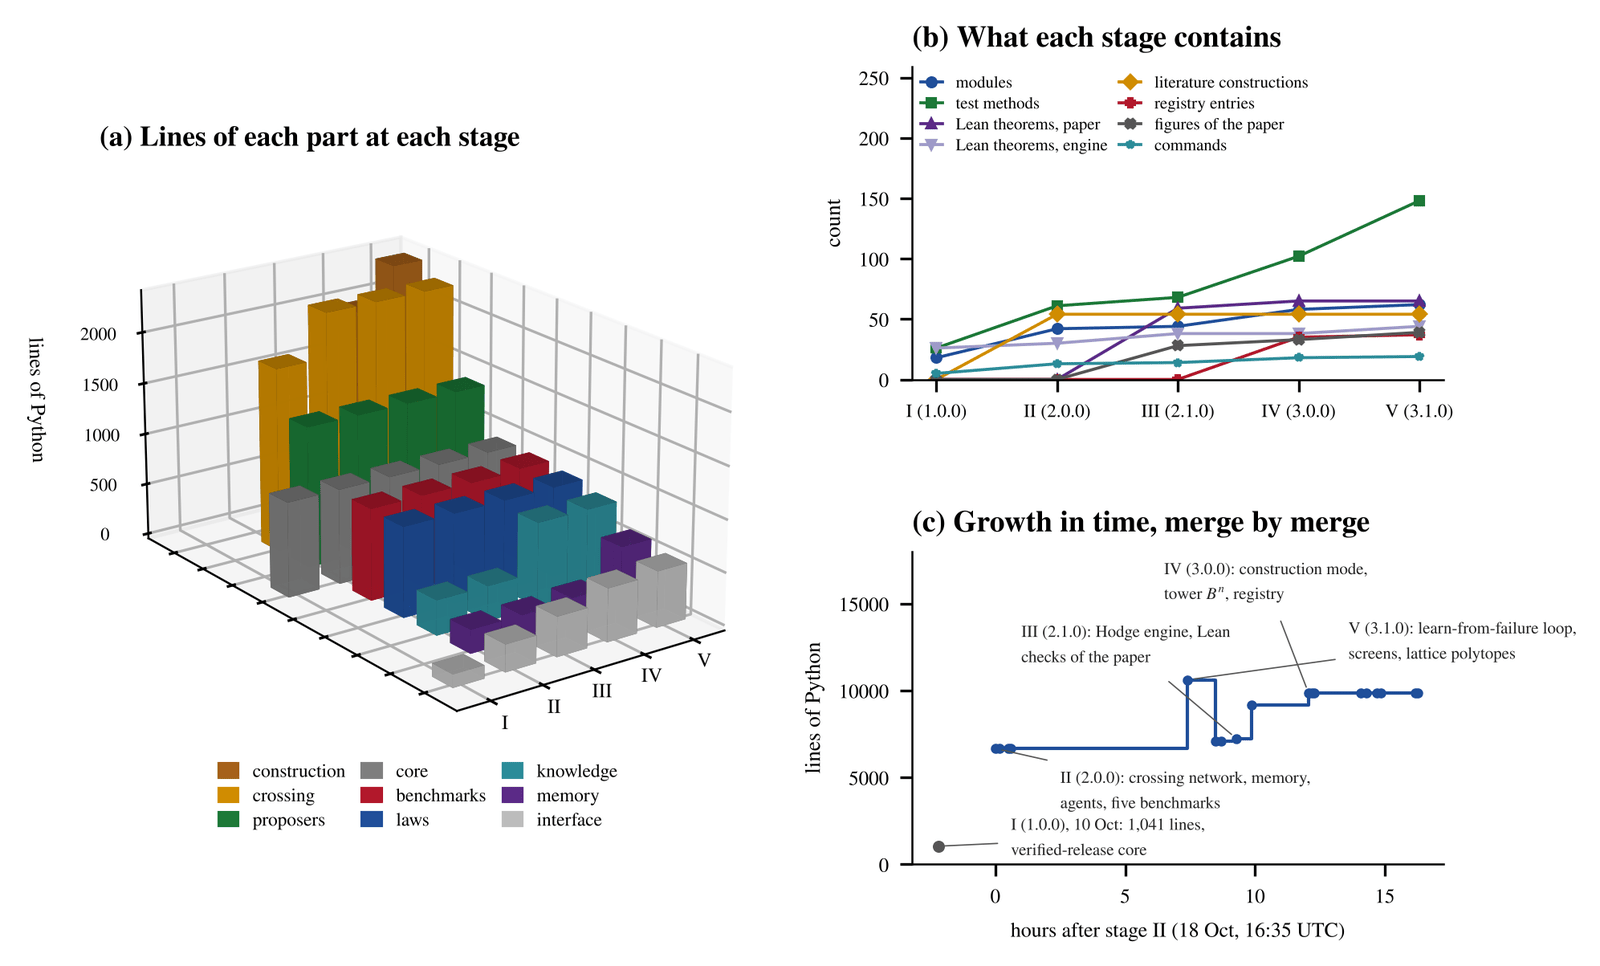
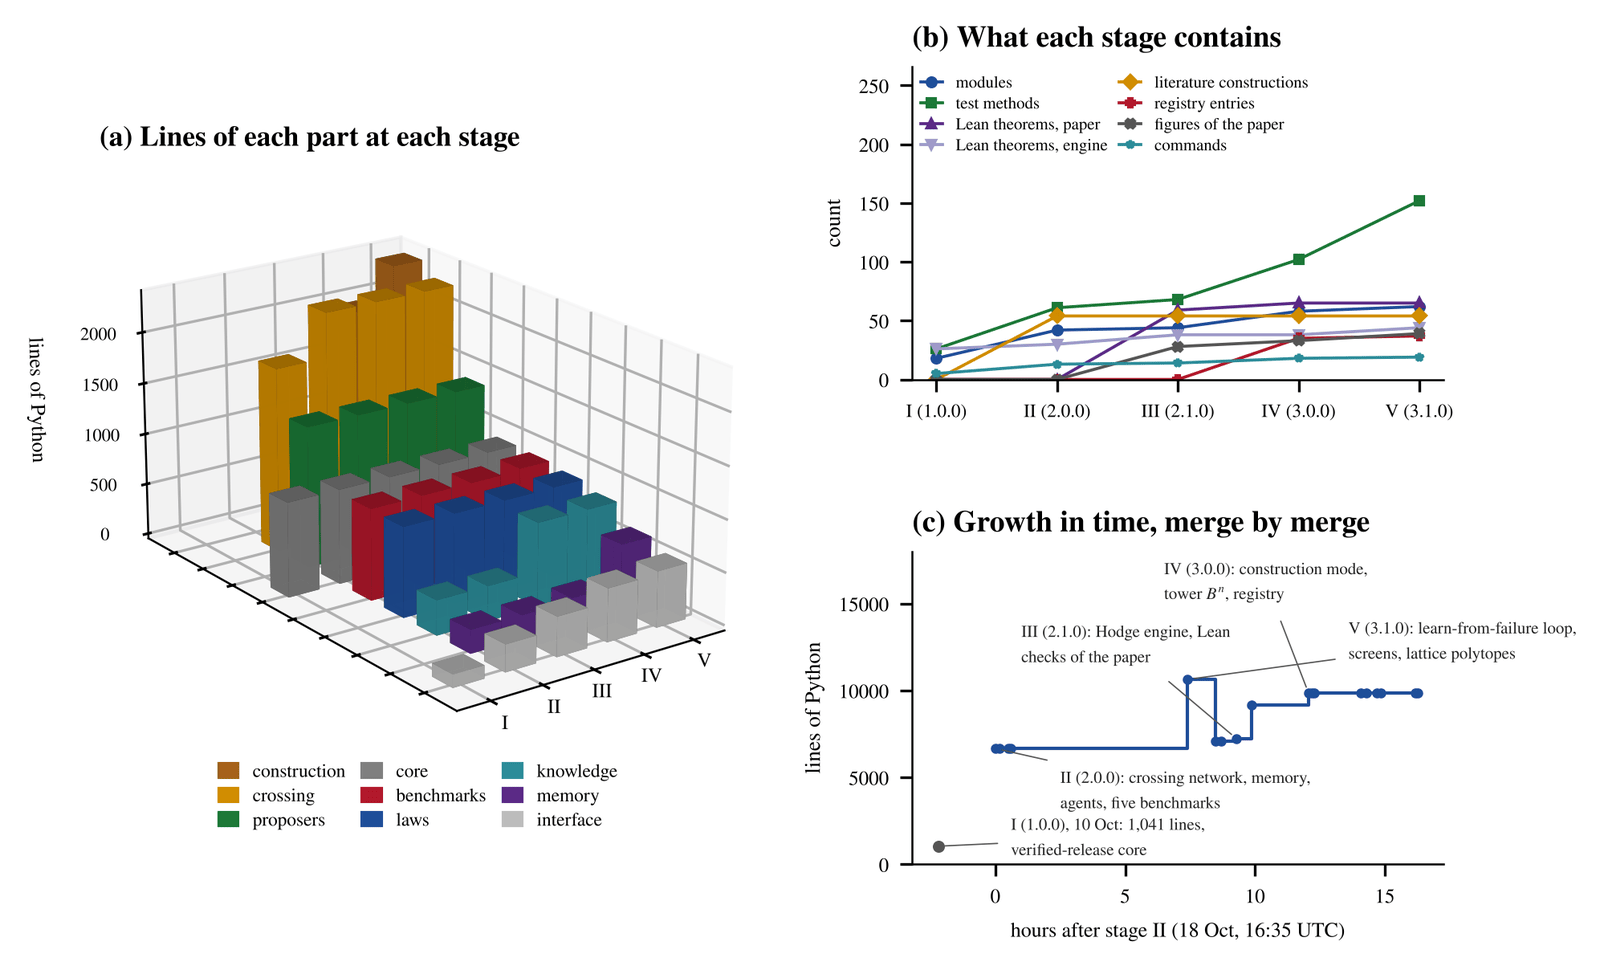
Screen for constants given by series over primes; Erdős–Straus control with Dahan's Type II sum and Dyachenko's conditional route

diff --git a/paper/bllm/paper/sections/sec10h_selfmod.tex b/paper/bllm/paper/sections/sec10h_selfmod.tex
@@ -67,7 +67,7 @@ The failures that remain open are as informative. On Erd\H{o}s's question with s
 
 \subsection{Screens and two gates}\label{ssec:screens}
 
-Some failures leave behind a rule that is better kept as a test than as a change of the rule book. A \emph{screen} tests a claimed step on cases where the truth can be computed exactly, and rejects the step at the first case that contradicts it. Passing a screen proves nothing; failing one refutes the step, and the failing case is kept with the screen as its counterexample. Table~\ref{tab:screens} lists the screens and the two gates of this subsection.\footnote{The screens are the module \texttt{screens} of the memory part and the gates are the module \texttt{reformulate} of construction mode. Every counterexample of Table~\ref{tab:screens} is recomputed by a test of the package in exact integer or rational arithmetic, except the factor at $X=4\cdot10^{6}$, which comes from a fast Fourier transform of the Liouville function and was compared with the exact identity $\bigl(\sum_{n\le X}\lambda(n)\bigr)^{2}=\lfloor X\rfloor+2\sum_{h\ge1}C_{h}(X)$.}
+Some failures leave behind a rule that is better kept as a test than as a change of the rule book. A \emph{screen} tests a claimed step on cases where the truth can be computed exactly, and rejects the step at the first case that contradicts it. Passing a screen proves nothing; failing one refutes the step, and the failing case is kept with the screen as its counterexample. Table~\ref{tab:screens} lists the screens and the two gates of this subsection.\footnote{The screens are the module \texttt{screens} of the memory part and the gates are the module \texttt{reformulate} of construction mode. Every counterexample of Table~\ref{tab:screens} is recomputed by a test of the package in exact integer or rational arithmetic, except the prime tails, tested on the prime zeta value in floating point, and the factor at $X=4\cdot10^{6}$, which comes from a fast Fourier transform of the Liouville function and was compared with the exact identity $\bigl(\sum_{n\le X}\lambda(n)\bigr)^{2}=\lfloor X\rfloor+2\sum_{h\ge1}C_{h}(X)$.}
 
 \begin{table}[t]
 \caption{Screens and gates, each with the failure it records.}
@@ -81,6 +81,7 @@ Some failures leave behind a rule that is better kept as a test than as a change
 \rr Correlation size & \rr a bound on the Liouville correlations below the random-model size $\sqrt X$ per shift & \rr $X=6000$, $H=1053$: mean square $4187$, bound $32.5$ \\
 \rr Both types & \rr an Erd\H{o}s--Straus normal form not tested against every solution of small cases & \rr $\frac4{73}=\frac1{20}+\frac1{210}+\frac1{30660}$, of type~I \\
 \rr Small cases & \rr a claimed existence of a parameter not tested on small cases & \rr $p=97$, $q=7$: neither $101$ nor $113$ is a multiple of $7$ \\
+\rr Prime tails & \rr a constant given by a series over primes, quoted without its tail or at one cutoff & \rr terms of size $(\log p)^{2}/p^{2}$: off by $1.7\cdot10^{-6}$ when cut at $10^{6}$ \\
 \rr Definition repair & \rr a new definition that changes an example without a reason or loses a consequence & \rr ``divisible only by $1$ and itself'' admits $1$ \\
 \rr Witness gate & \rr a conditional result with no witness meeting every hypothesis and every nondegeneracy condition & \rr a hypothesis bundle met only by the zero datum \\
 \bottomrule
@@ -117,6 +118,8 @@ From $\frac1x<\frac4n$ we get $x>\frac n4$, and from $\frac4n=\frac1x+\frac1y+\f
 \end{proof}
 
 For $n=73$ the lemma gives seven solutions: four of type I, among them $\frac1{20}+\frac1{210}+\frac1{30660}$ with only $30660=73\cdot420$ divisible by $73$, and three of type II. A normal form for the solutions that covers only type II therefore misses four of the seven, and the screen tests every proposed normal form against all solutions of small cases. A second screen tests every claimed existence of a parameter in the same way. One argument needed, for a prime $p$ and a prime $q\equiv3\pmod4$, a divisor $k$ of $\frac{q+1}{4}$ with $q\mid p+4k^{2}$; at $p=97$ and $q=7$ the candidates are $k=1,2$, and neither $101$ nor $113$ is a multiple of $7$. For $p=97$ no prime $q\equiv3\pmod4$ below $400$ has such a divisor.\footnote{Both screens are short programs, and the second shows why the claimed step carries the whole difficulty: the classical families of solutions cover the primes $p$ in fixed residue classes, and Mordell's observation, recalled by Elsholtz and Tao \cite{ET13}, is that no finite set of such families covers the primes in the residue classes that are squares, so a proof must produce for each $p$ a divisor in a progression, which is the open part of the conjecture. A proof that ends by choosing a suitable modulus or divisor without showing that one exists is rejected by the second screen at the first $p$ for which none does.} The package records the conjecture as an open problem whose barriers are Mordell's families and the two screens, and it does not count a verification up to any bound as a route to a proof.
+
+\emph{Series over primes.} A constant given by a series over primes is known only as well as its tail. The asymptotic of Dahan's Type~II sum for the Erd\H{o}s--Straus equation \cite{Dah26} carries a constant given by such a series, whose terms decay like $(\log p)^{2}/p^{2}$ and not like $p^{-3}$; cut at $10^{6}$ with no tail term, its value was wrong by $1.7\cdot10^{-6}$. The screen accepts a value of $\sum_{p}f(p)$ only when the partial sum plus an estimate of the tail gives the same value, within the stated precision, at two cutoffs $N$ and $N'\ge10N$. For the prime zeta value $\sum_{p}p^{-2}=0.45224742\ldots$ the tail beyond $N$ is close to $E_{1}(\log N)$.\footnote{By the prime number theorem the primes near $t$ have density $1/\log t$, so $\sum_{p>N}p^{-2}$ is close to $\int_{N}^{\infty}\frac{dt}{t^{2}\log t}$, and the substitution $t=e^{u}$ turns this integral into $\int_{\log N}^{\infty}e^{-u}\frac{du}{u}=E_{1}(\log N)$. Since $E_{1}(x)=e^{-x}\bigl(\frac1x-\frac1{x^{2}}+O(x^{-3})\bigr)$, the tail is $\frac{1}{N\log N}\bigl(1-\frac{1}{\log N}+\cdots\bigr)$; a cutoff alone therefore leaves an error of order $1/(N\log N)$, which falls only by a factor slightly above ten for each factor ten in $N$.} With it the values at $10^{4}$ and $10^{5}$ agree to $6\cdot10^{-8}$, and the second is within $1.5\cdot10^{-9}$ of the true value, while the partial sum alone at $10^{5}$ is still $8\cdot10^{-7}$ short.
 
 \emph{Definition repair.} In an interview in October 2026, Kontsevich told how an AI system, shown the text of a talk, proposed without being asked a better definition and how to correct the old one, and said that the right definition is the one from which powerful consequences follow \cite{Kon26}.\footnote{He named neither the talk nor the system nor the definition, and no account of the episode has been published, so it is an anecdote and not a result. What Anaxia takes from it is the criterion, which is old in mathematics; the gate below is ours.} Anaxia turns the criterion into a gate. Fix a finite universe $U$ of examples and a library $\mathcal L$ of predicates on $U$, the known consequences. A definition $D\subseteq U$ \emph{carries} $Q\in\mathcal L$ when $Q$ holds on every element of $D$. A new definition $D'$ is accepted as a \emph{repair} of $D$ when every element of the symmetric difference $D\triangle D'$ comes with a stated reason, and either $D'$ carries every consequence that $D$ carries and at least one more, or $D'=D$ with fewer clauses. On $U=\{1,\dots,199\}$, ``divisible only by $1$ and itself'' and ``exactly two divisors'' differ only at $1$; with the reason that $1$ is a unit, the second gains the consequences $n>1$ and $\varphi(n)=n-1$ and is accepted, while ``odd'' as a replacement for ``exactly two divisors'' loses Euclid's lemma and is refused. An accepted repair is a proposal and passes the usual checks before anything uses it.
 

diff --git a/src/ebllm/bllm/screens.py b/src/ebllm/bllm/screens.py
@@ -20,9 +20,16 @@ claim that a divisor k of (q + 1)/4 with q | p + 4k^2 always exists fails at p =
 rules: a normal form is tested against every solution of small cases (``solutions``,
 ``solution_type``), and every claimed existence of a parameter is tested on small cases
 (``first_failure``).
+
+Constants defined by series over primes.  The asymptotic of Dahan's Type II sum for the
+Erdos-Straus equation has a constant M given by a series over primes whose terms decay like
+(log p)^2 / p^2, not p^-3; cut at 10^6 without a tail term it was off by 1.7e-6.  The rule: a
+constant defined by a series over primes is quoted only with a tail estimate added, and only when
+the corrected values at two cutoffs at least a factor 10 apart agree (``cutoff_check``).
 """
 from __future__ import annotations
 
+import math
 from math import isqrt
 from operator import mul
 from typing import Callable, Iterable, List, Optional, Tuple
@@ -97,3 +104,27 @@ def divisor_in_progression(p: int, q: int) -> bool:
     """Whether some divisor k of (q + 1)/4 has q | p + 4k^2 (q = 3 mod 4)."""
     d = (q + 1) // 4
     return any(d % k == 0 and (p + 4 * k * k) % q == 0 for k in range(1, d + 1))
+
+
+# -- series over primes ----------------------------------------------------------------------------------
+def primes_upto(n: int) -> List[int]:
+    sieve = bytearray([1]) * (n + 1)
+    sieve[:2] = b"\x00\x00"[: min(2, n + 1)]
+    for p in range(2, isqrt(n) + 1):
+        if sieve[p]:
+            sieve[p * p::p] = bytearray(len(range(p * p, n + 1, p)))
+    return [i for i in range(n + 1) if sieve[i]]
+
+
+def prime_sum(term: Callable[[int], float], n: int) -> float:
+    """The sum of term(p) over the primes p <= n."""
+    return math.fsum(term(p) for p in primes_upto(n))
+
+
+def cutoff_check(partial: Callable[[int], float], tail: Callable[[int], float], cutoffs: Tuple[int, int],
+                 tol: float) -> Tuple[bool, float, float]:
+    """Accept a value of a series over primes when partial(N) + tail(N) agrees within tol at two
+    cutoffs N1 < N2 with N2 >= 10 N1; returns (accepted, value at N1, value at N2)."""
+    n1, n2 = sorted(cutoffs)
+    v1, v2 = partial(n1) + tail(n1), partial(n2) + tail(n2)
+    return n2 >= 10 * n1 and abs(v1 - v2) <= tol, v1, v2

diff --git a/tests/test_screens.py b/tests/test_screens.py
@@ -1,3 +1,4 @@
+import math
 import unittest
 from fractions import Fraction
 
@@ -52,6 +53,42 @@ class ErdosStraus(unittest.TestCase):
         # for p = 97 no prime q = 3 mod 4 below 400 has such a divisor
         primes = [q for q in range(3, 400, 4) if all(q % d for d in range(2, q))]
         self.assertFalse(any(S.divisor_in_progression(97, q) for q in primes))
+
+
+def _e1(x, n=4000):
+    """E_1(x) = integral from x to infinity of e^-u / u, by Simpson's rule on [x, x + 50]."""
+    h = 50 / n
+    f = lambda u: math.exp(-u) / u
+    return h / 3 * (f(x) + f(x + 50) + 4 * sum(f(x + (2 * k - 1) * h) for k in range(1, n // 2 + 1))
+                    + 2 * sum(f(x + 2 * k * h) for k in range(1, n // 2)))
+
+
+class PrimeSeries(unittest.TestCase):
+    # the prime zeta value P(2) = sum over primes of 1/p^2 (OEIS A085548)
+    P2 = 0.45224742004106549850654336483224793417323134323989
+    TERM = staticmethod(lambda p: 1 / (p * p))
+
+    def partial(self, n):
+        return S.prime_sum(self.TERM, n)
+
+    def test_primes(self):
+        self.assertEqual(S.primes_upto(30), [2, 3, 5, 7, 11, 13, 17, 19, 23, 29])
+        self.assertEqual(len(S.primes_upto(10 ** 5)), 9592)
+
+    def test_with_the_tail_the_two_cutoffs_agree(self):
+        # the tail over p > N is about the integral of dt / (t^2 log t) from N, which is E_1(log N)
+        ok, v1, v2 = S.cutoff_check(self.partial, lambda n: _e1(math.log(n)), (10 ** 4, 10 ** 5), 1e-7)
+        self.assertTrue(ok)
+        self.assertLess(abs(v2 - self.P2), 1e-8)
+
+    def test_without_the_tail_the_value_is_rejected(self):
+        ok, v1, v2 = S.cutoff_check(self.partial, lambda n: 0.0, (10 ** 4, 10 ** 5), 1e-7)
+        self.assertFalse(ok)
+        self.assertGreater(abs(v2 - self.P2), 5e-7)   # the bare sum to 10^5 is off by 8e-7
+
+    def test_cutoffs_closer_than_a_factor_ten_are_refused(self):
+        ok, _, _ = S.cutoff_check(self.partial, lambda n: _e1(math.log(n)), (10 ** 4, 5 * 10 ** 4), 1.0)
+        self.assertFalse(ok)
 
 
 if __name__ == "__main__":

diff --git a/paper/bllm/paper/sections/gen_releases.tex b/paper/bllm/paper/sections/gen_releases.tex
@@ -13,7 +13,7 @@
 \rr II (2.0.0) & \rr 18 Oct & \rr 42 & \rr 6{,}664 & \rr 61 & \rr 0/30 & \rr the crossing network, boosters, memory, target points, agents, the five benchmarks and the searches of Erd\H{o}s problem 1183 & \rr \href{https://doi.org/10.5281/zenodo.23455686}{23455686} \\
 \rr III (2.1.0) & \rr 19 Oct & \rr 44 & \rr 7{,}224 & \rr 68 & \rr 59/38 & \rr the Hodge agent, the container image, the command \texttt{anaxia} and the Lean development of the paper & \rr \href{https://doi.org/10.5281/zenodo.23462639}{23462639} \\
 \rr IV (3.0.0) & \rr 19 Oct & \rr 58 & \rr 9{,}837 & \rr 102 & \rr 65/38 & \rr construction mode, the DeepMind intake, the tower $B^{n}$ of builders, the registry of sources & \rr \href{https://doi.org/10.5281/zenodo.23464390}{23464390} \\
-\rr V (3.1.0) & \rr 19 Oct & \rr 62 & \rr 10{,}615 & \rr 148 & \rr 65/44 & \rr the learn-from-failure loop and its log, the screens, covers, descents and free sums of reflexive polytopes, the seed benchmark & \rr \anaxiaDOIshort \\
+\rr V (3.1.0) & \rr 19 Oct & \rr 62 & \rr 10{,}639 & \rr 152 & \rr 65/44 & \rr the learn-from-failure loop and its log, the screens, covers, descents and free sums of reflexive polytopes, the seed benchmark & \rr \anaxiaDOIshort \\
 \bottomrule
 \end{tabular}
 \end{table*}

diff --git a/paper/bllm/paper/sections/gen_numbers.tex b/paper/bllm/paper/sections/gen_numbers.tex
@@ -3,8 +3,8 @@
 \newcommand{\brainImports}{105}
 \newcommand{\brainWithin}{49}
 \newcommand{\brainBetween}{56}
-\newcommand{\brainLines}{10{,}615}
-\newcommand{\brainTests}{148}
+\newcommand{\brainLines}{10{,}639}
+\newcommand{\brainTests}{152}
 \newcommand{\brainLeanPaper}{65}
 \newcommand{\brainLeanEngine}{44}
 \newcommand{\brainCommands}{19}
@@ -26,7 +26,7 @@
 \newcommand{\brainModCrossing}{8}
 \newcommand{\brainLocCrossing}{2{,}232}
 \newcommand{\brainModMemory}{4}
-\newcommand{\brainLocMemory}{607}
+\newcommand{\brainLocMemory}{631}
 \newcommand{\brainModKnowledge}{4}
 \newcommand{\brainLocKnowledge}{811}
 \newcommand{\brainModBenchmarks}{2}

diff --git a/paper/bllm/paper/sections/bibliography.tex b/paper/bllm/paper/sections/bibliography.tex
@@ -367,6 +367,12 @@ Z. Chen, Y. Zhao and A. Cohan,
 preprint (2026).
 \href{https://arxiv.org/abs/2607.01233}{\nolinkurl{arXiv:2607.01233}}.
 
+\bibitem{Dah26}
+B. Dahan,
+\emph{Sieve dimension and search depth for the Erd\H{o}s--Straus conjecture, $n\equiv1\pmod{24}$},
+preprint (2026).
+\href{https://arxiv.org/abs/2608.24035}{\nolinkurl{arXiv:2608.24035}}.
+
 \bibitem{dB70}
 N. G. de Bruijn,
 \emph{The mathematical language AUTOMATH, its usage, and some of its extensions},

diff --git a/.github/RELEASE_NOTES.md b/.github/RELEASE_NOTES.md
@@ -23,11 +23,13 @@ conjecture of mathematical physics proved without conditions, and it learns from
   is rejected: the claimed bound of one route to the Riemann hypothesis is 129 times too small at
   X = 6000. An Erdos-Straus normal form is tested against every solution of small cases (4/73 has
   four solutions of type I), and every claimed existence of a parameter is tested on small cases
-  (it fails at p = 97, q = 7). Construction mode gains definition repair, which accepts a new
-  definition only when every changed example has a reason and the new one carries more
-  consequences, and the witness gate, which admits a conditional result only with a witness that
+  (it fails at p = 97, q = 7). A constant defined by a series over primes is quoted only with a
+  tail estimate added and agreement at two cutoffs a factor 10 apart. Construction mode gains
+  definition repair, which accepts a new definition only when every changed example has a reason
+  and the new one carries more consequences, and the witness gate, which admits a conditional result only with a witness that
   meets every hypothesis and is not degenerate (`src/ebllm/construct/reformulate.py`). The Riemann
-  control lists its barriers, the Erdos-Straus conjecture joins the controls as open, and the
+  control lists its barriers, the Erdos-Straus conjecture joins the controls as open (with the
+  asymptotic of Dahan's Type II sum proved in creelie/ErdosProblem1 on the way), and the
   registry gains Bedrossian's Lean formalization of Landau damping and Kontsevich's criterion for
   definitions.
 - **Six benchmarks.** The mathematical-physics benchmark joins the five open problems; it is the
@@ -35,7 +37,7 @@ conjecture of mathematical physics proved without conditions, and it learns from
 - **The paper** is rewritten as one text around these results, with new sections on the anatomy of
   the engine and how it grew, on learning from failure, its screens and gates, and on the seed
   conjecture, and new figures and tables drawn from the package and its history, among them a
-  drawing in space of a reflexive descent in dimension three. 148 unit tests pass.
+  drawing in space of a reflexive descent in dimension three. 152 unit tests pass.
 - **The README** is also the page of the image on ghcr.io, with new artwork, and the description of
   the image is taken from `pyproject.toml`.
 

diff --git a/README.md b/README.md
@@ -56,7 +56,8 @@ the new rule. The cards above are its measured record, the last one included.
   random signs would give is rejected: the collar bound of a Riemann-hypothesis route fails by a
   factor of 129 already at X = 6000, over 1,053 shifts. An Erdős–Straus normal form is tested
   against every solution of small cases, and 4/73 = 1/20 + 1/210 + 1/30660 breaks one. A
-  definition may be replaced only by one that explains every changed example and carries more
+  constant given by a series over primes is quoted only with its tail added and only when two
+  cutoffs a factor 10 apart agree. A definition may be replaced only by one that explains every changed example and carries more
   consequences, and a conditional result counts only with a witness that meets all its
   hypotheses and is not degenerate, the check that closed an empty hypothesis bundle in the Lean
   formalization of Landau damping.
@@ -559,7 +560,7 @@ problems are OPEN.
 
 `checks/run_all.sh` runs everything that CI runs:
 
-- 148 Python tests (`tests/`), including the update check, the loop and its log, the reflexive
+- 152 Python tests (`tests/`), including the update check, the loop and its log, the reflexive
   polygons, their covers, descents and free sums, definition repair and the witness gate, the
   screens against their counterexamples, the six benchmarks, and this README against the package;
 - `checks/c/sandtile.c`: the conservative two-site run does not stabilize in 10⁶ topplings, the
